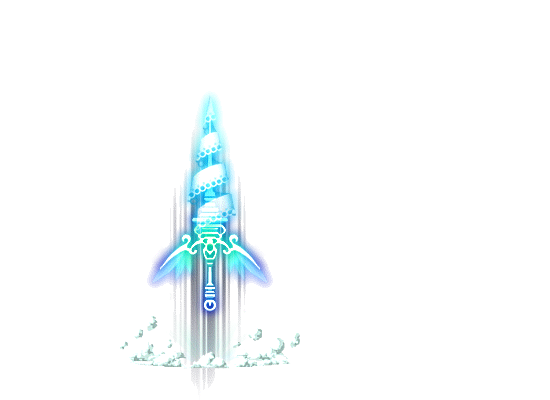
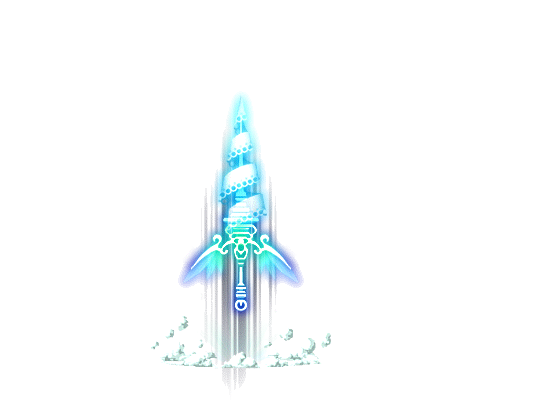
250108_업데이트

Changed region(s): [[0.2164, 0.24, 0.6182, 0.96]]

diff --git a/MapleContents/ChargeDrive.cpp b/MapleContents/ChargeDrive.cpp
@@ -16,11 +16,11 @@ AChargeDrive::AChargeDrive()
 	ChargeDrive_Front = CreateDefaultSubObject<USpriteRenderer>();
 	ChargeDrive_Back = CreateDefaultSubObject<USpriteRenderer>();
 	
-	ChargeDrive_Front->SetupAttachment(RootComponent);
 	ChargeDrive_Back->SetupAttachment(RootComponent);
+	ChargeDrive_Front->SetupAttachment(RootComponent);
 
 	ChargeDrive_Front->CreateAnimation("ChargeDrive_Front", "ChargeDrive", 0, 10, 0.07f, false);
-	ChargeDrive_Back->CreateAnimation("ChargeDrive_Back", "ChargeDrive", 11, 18, 0.04f, false);
+	ChargeDrive_Back->CreateAnimation("ChargeDrive_Back", "ChargeDrive", 11, 19, 0.04f, false);
 
 	ChargeDrive_Front->CreateAnimation("None", "WrathOfEnril", 14, 14, 0.01f, false);
 	ChargeDrive_Back->CreateAnimation("None", "WrathOfEnril", 14, 14, 0.01f, false);
@@ -28,8 +28,8 @@ AChargeDrive::AChargeDrive()
 	ChargeDrive_Front->ChangeAnimation("None");
 	ChargeDrive_Back->ChangeAnimation("None");
 
-	ChargeDrive_Front->SetRelativeLocation(FVector{ 0.0f, -30.0f, static_cast<float>(EMapleZEnum::Player_Skill_Back) });
-	ChargeDrive_Back->SetRelativeLocation(FVector{ -20.0f, -50.0f, static_cast<float>(EMapleZEnum::Player_Skill_Front) });
+	ChargeDrive_Front->SetRelativeLocation(FVector{ 0.0f, -30.0f, static_cast<float>(EMapleZEnum::Player_Skill_Front) });
+	ChargeDrive_Back->SetRelativeLocation(FVector{ 0.0f, -50.0f, static_cast<float>(EMapleZEnum::Player_Skill_Front) - 50.0f});
 }
 
 AChargeDrive::~AChargeDrive()

diff --git a/MapleContents/HighKick.cpp b/MapleContents/HighKick.cpp
@@ -1,0 +1,51 @@
+#include "PreCompile.h"
+#include "HighKick.h"
+
+#include <EnginePlatform/EngineInput.h>
+
+#include <EngineCore/SpriteRenderer.h>
+#include <EngineCore/DefaultSceneComponent.h>
+
+#include "MapleEnum.h"
+AHighKick::AHighKick()
+{
+	std::shared_ptr<UDefaultSceneComponent> Default = CreateDefaultSubObject<UDefaultSceneComponent>();
+	RootComponent = Default;
+
+	HighKick = CreateDefaultSubObject<USpriteRenderer>();
+	HighKick->SetupAttachment(RootComponent);
+
+	HighKick->CreateAnimation("HighKickDemolition", "HighKick", 0, 12, 0.0614f, false);
+	HighKick->CreateAnimation("None", "WrathOfEnril", 14, 14, 0.01f, false);
+	HighKick->ChangeAnimation("None");
+
+	HighKick->SetRelativeLocation(FVector{ 0.0f, -60.0f, static_cast<float>(EMapleZEnum::Player_Skill_Front) });
+}
+
+AHighKick::~AHighKick()
+{
+
+}
+
+
+void AHighKick::BeginPlay()
+{
+	ASkillManager::BeginPlay();
+}
+
+void AHighKick::Tick(float _DeltaTime)
+{
+	ASkillManager::Tick(_DeltaTime);
+
+	if (true == HighKick->IsCurAnimationEnd())
+	{
+		HighKick->ChangeAnimation("None");
+		HighKick->SetActive(false);
+	}
+
+	if (true == UEngineInput::IsPress('W'))
+	{
+		HighKick->ChangeAnimation("HighKickDemolition");
+		HighKick->SetActive(true);
+	}
+}

diff --git a/MapleContents/Player.cpp b/MapleContents/Player.cpp
@@ -42,7 +42,7 @@ APlayer::APlayer()
 	PlayerRenderer->CreateAnimation("Unicorn", "Unicorn.png", 0, 4, 0.14f, false);
 	PlayerRenderer->CreateAnimation("LegendarySpear", "LegendarySpear.png", 0, 11, 0.046f, false);
 	PlayerRenderer->CreateAnimation("ProneAttack", "Prone.png", 0, 1, 0.1f, false);
-
+	PlayerRenderer->CreateAnimation("HighKick", "HighKick", 0, 0, 0.6f, false);
 
 
 

diff --git a/MapleContents/MapleEnum.h b/MapleContents/MapleEnum.h
@@ -31,8 +31,8 @@ enum class EMapleZEnum : int
 	Monster            = 1900,
 	Monster_Skill      = 1800,
 
-	Player_Skill_Back  = 1400,
-	Player             = 1500,
+	Player_Skill_Back  = 1500,
+	Player             = 1400,
 	Player_Skill_Front = 1300,
 
 	Front_Object3      = 900, 

diff --git a/MapleContents/CerniumPlazaMode.h b/MapleContents/CerniumPlazaMode.h
@@ -30,6 +30,7 @@ private:
 	std::shared_ptr<class AStrikeDualShot> StrikeDualShot;
 	std::shared_ptr<class ARollingMoonSult> RollingMoonSult;
 	std::shared_ptr<class AChargeDrive> ChargeDrive;
+	std::shared_ptr<class AHighKick> HighKick;
 
 
 
